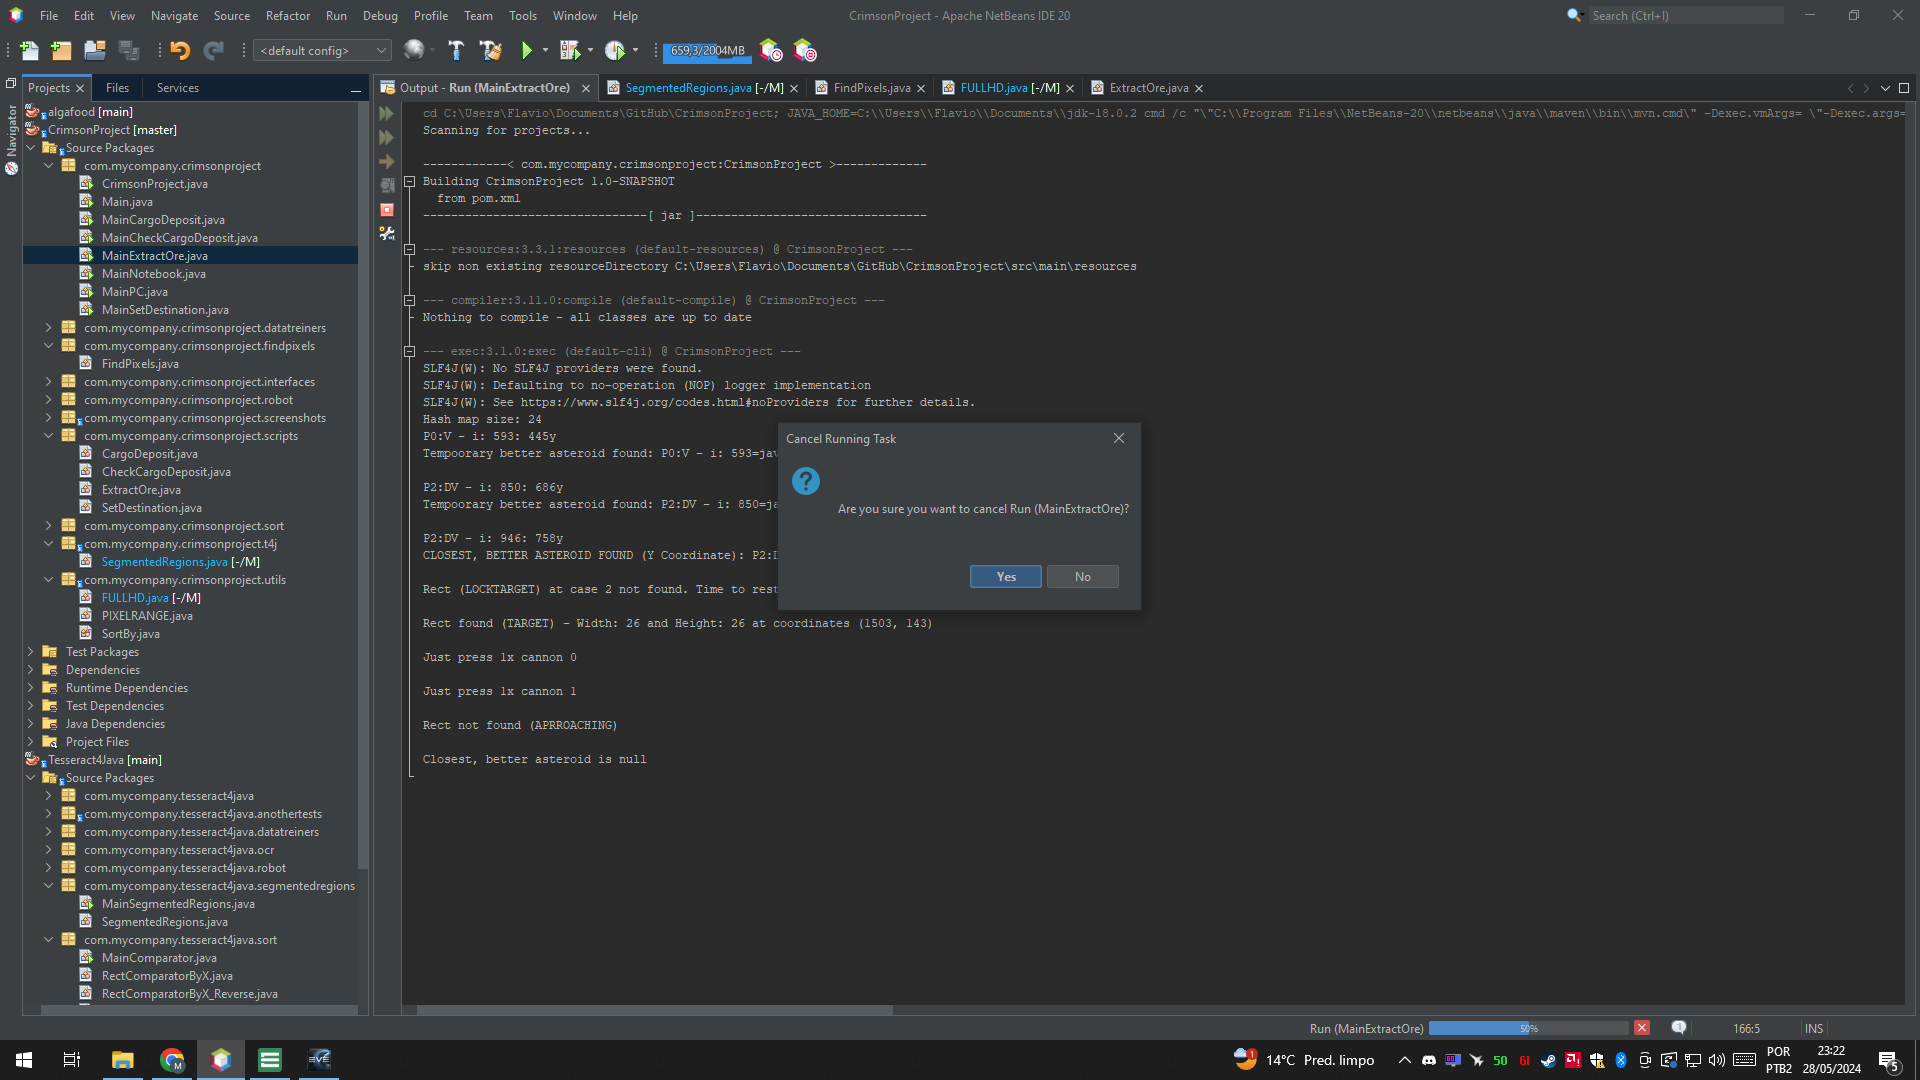
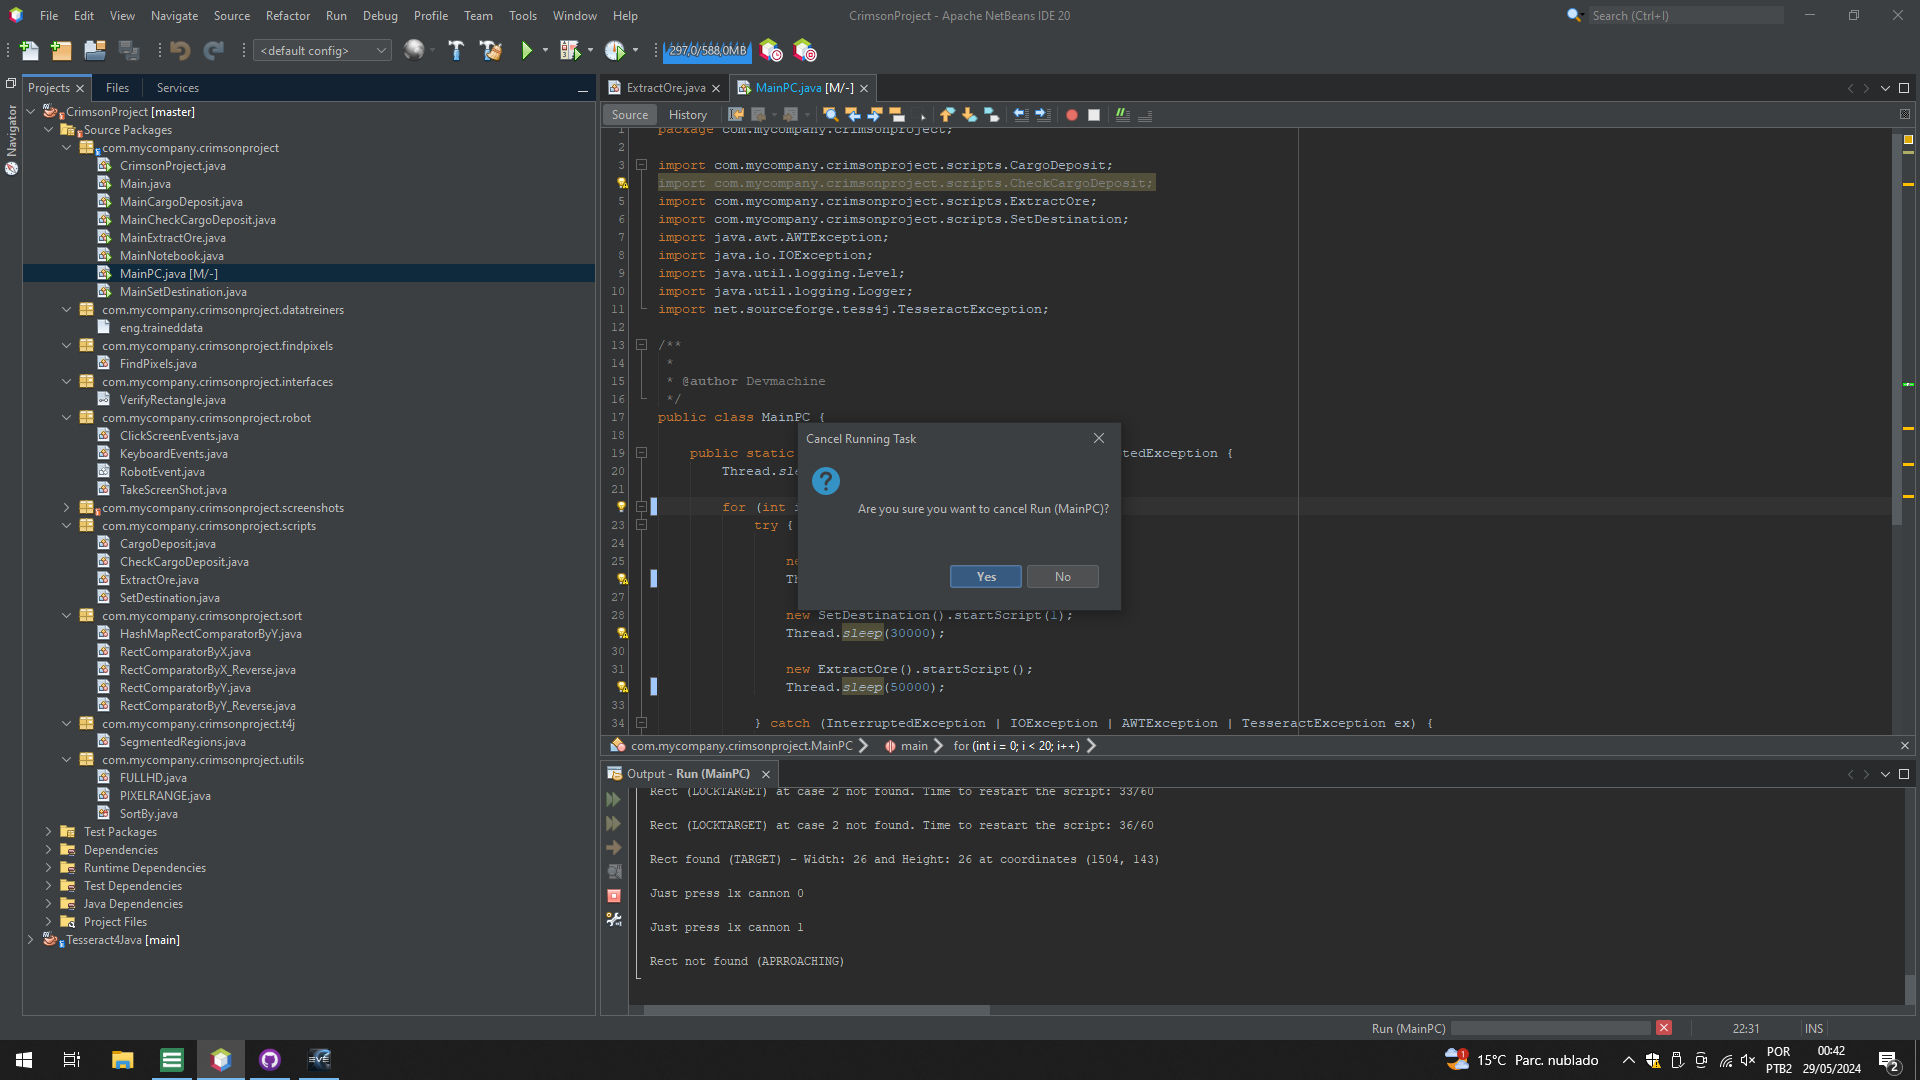
Modificando tempo das threads em Main

diff --git a/src/main/java/com/mycompany/crimsonproject/MainPC.java b/src/main/java/com/mycompany/crimsonproject/MainPC.java
@@ -19,17 +19,17 @@ public class MainPC {
     public static void main(String[] args) throws InterruptedException {
         Thread.sleep(4000);
 
-        for (int i = 0; i < 1; i++) {
+        for (int i = 0; i < 20; i++) {
             try {
 
                 new CargoDeposit().startScript();
-                Thread.sleep(10000);
+                Thread.sleep(12000);
 
                 new SetDestination().startScript(1);
                 Thread.sleep(30000);
 
                 new ExtractOre().startScript();
-                Thread.sleep(33000);
+                Thread.sleep(50000);
 
             } catch (InterruptedException | IOException | AWTException | TesseractException ex) {
                 Logger.getLogger(MainPC.class.getName()).log(Level.SEVERE, null, ex);
